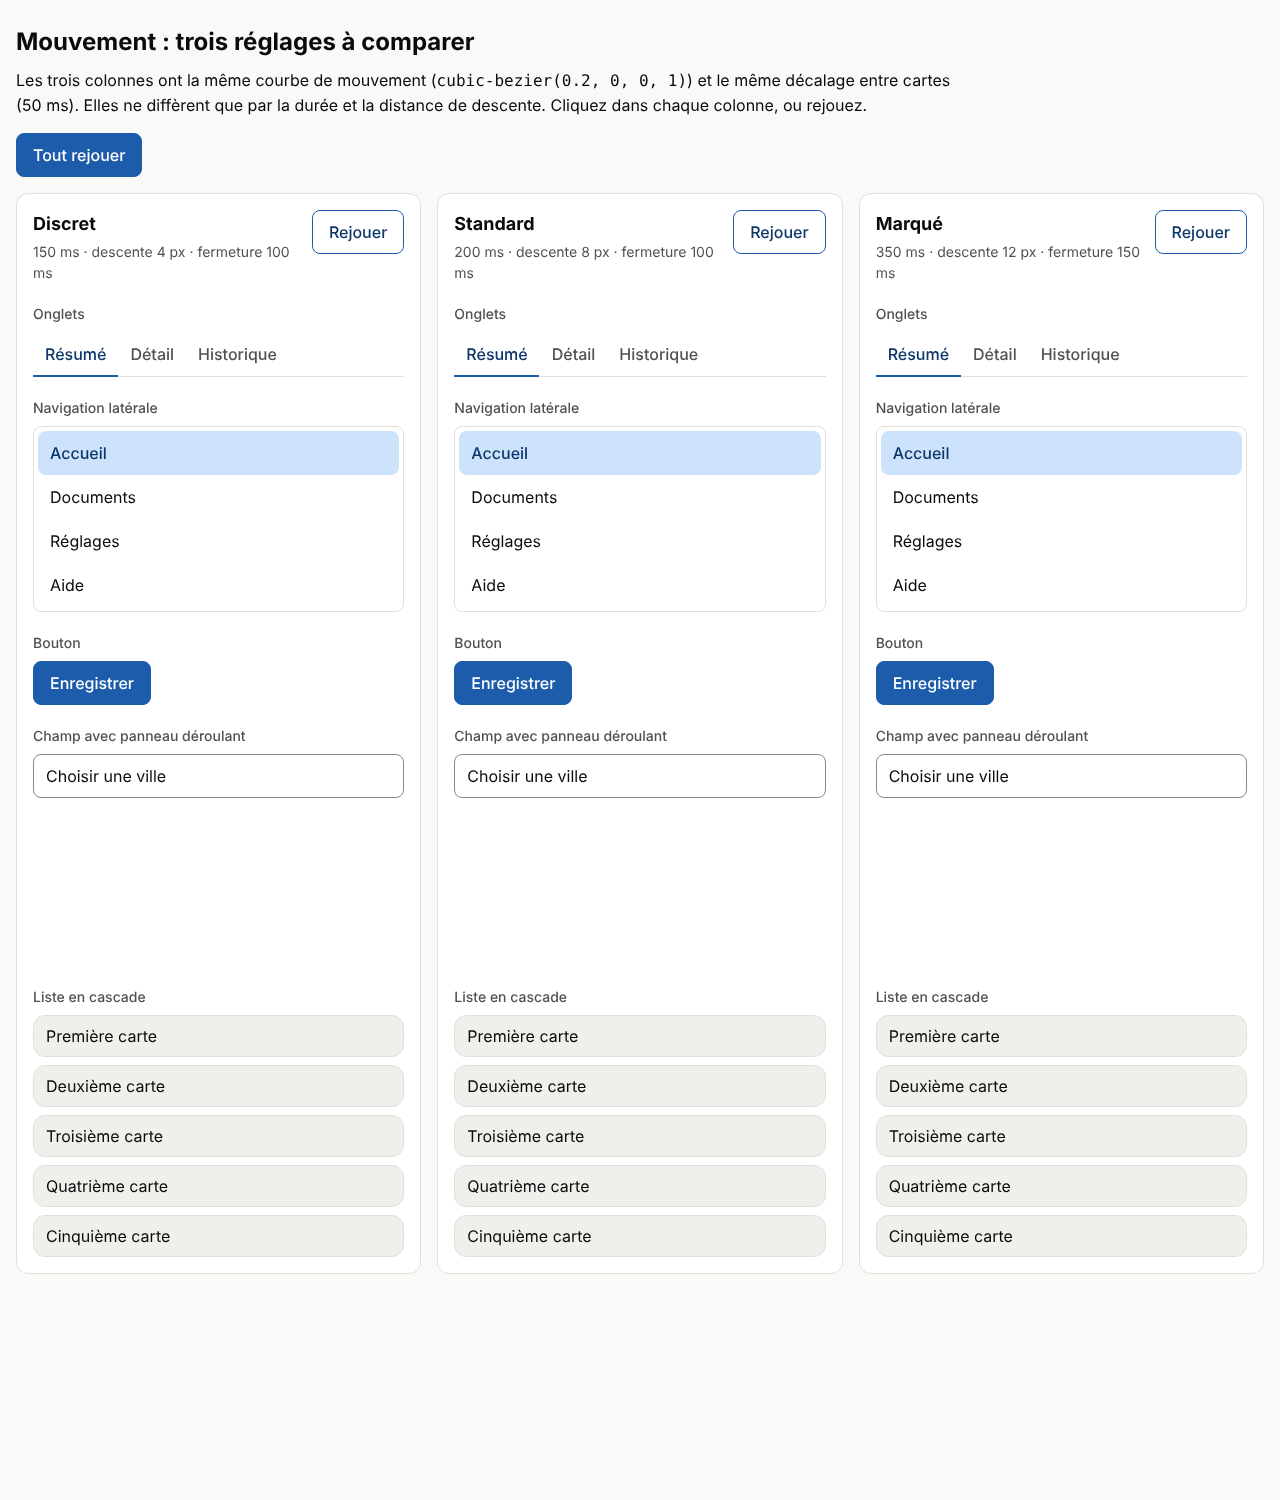
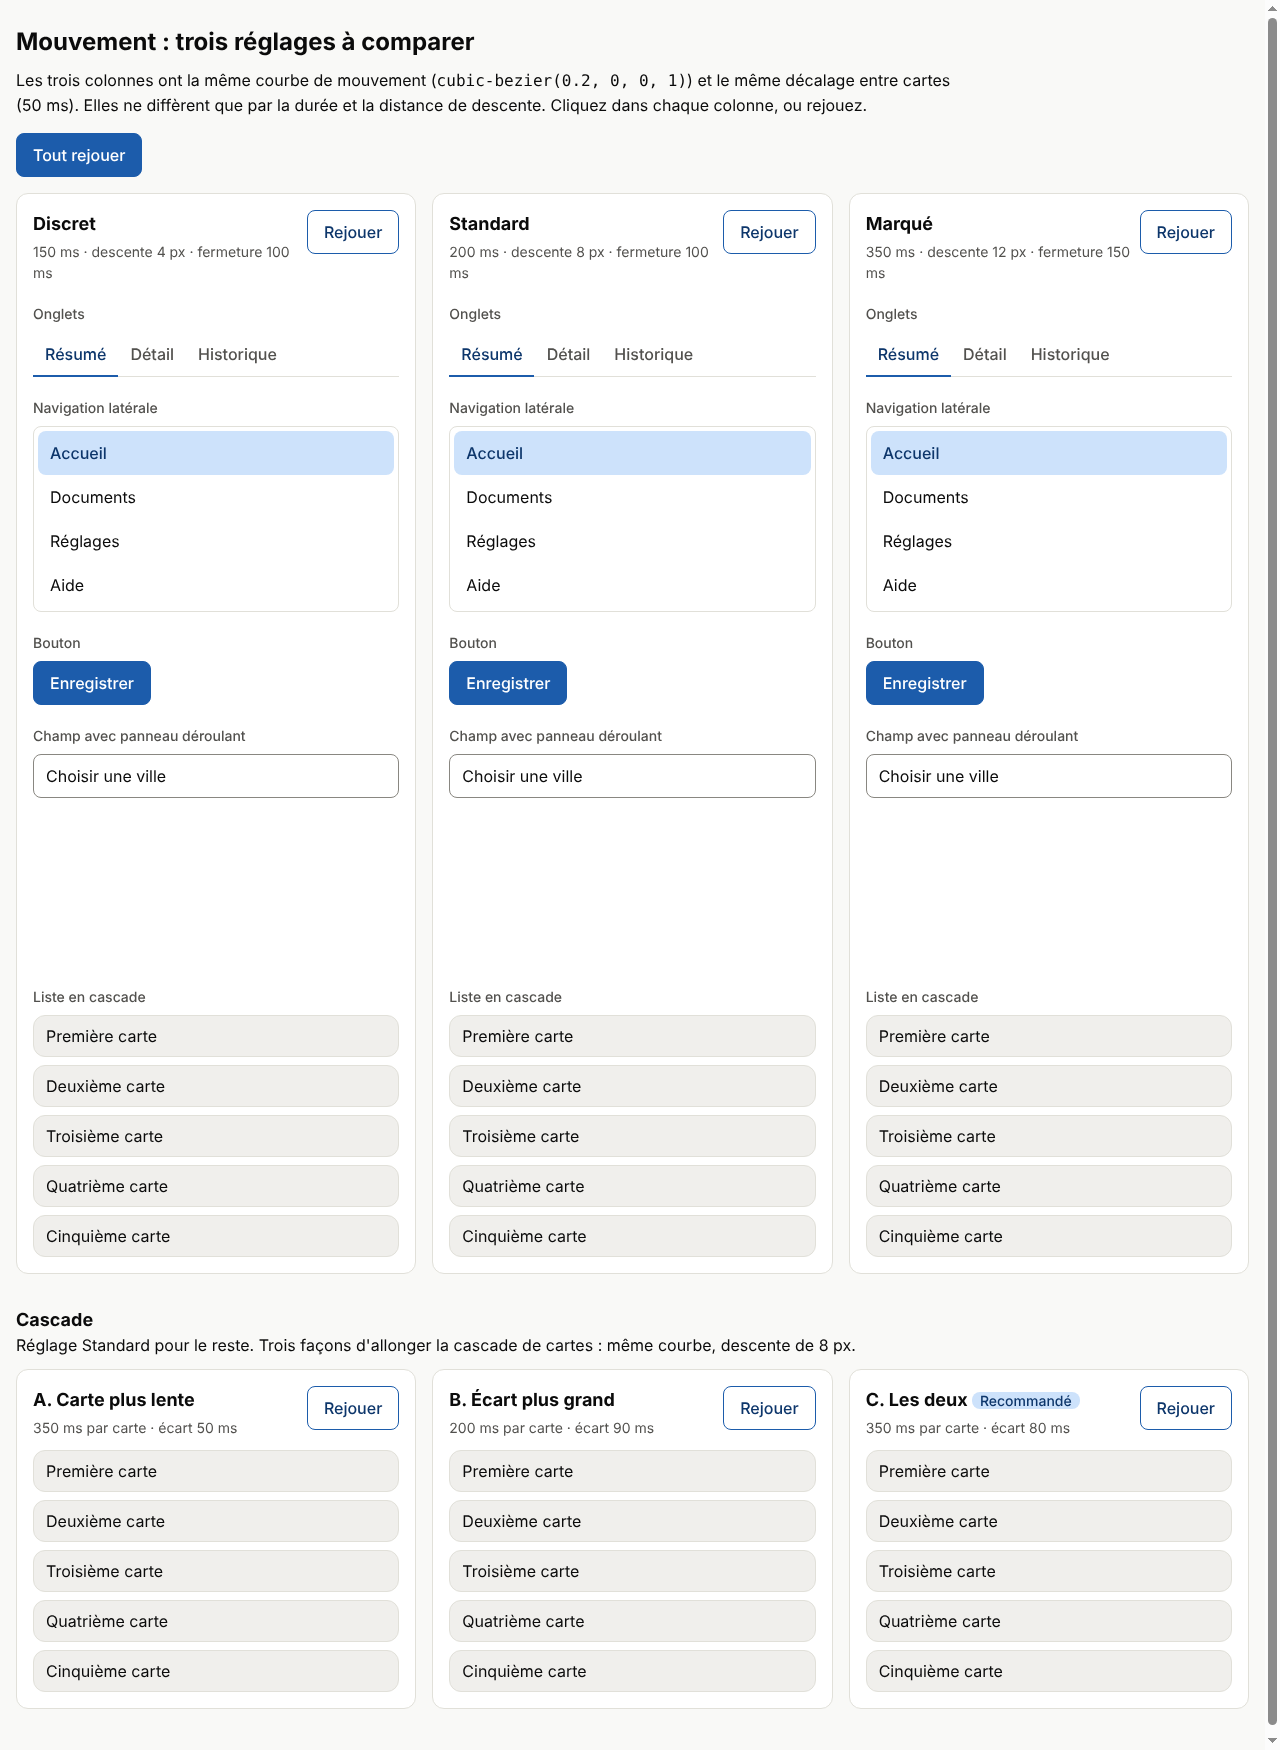
docs(design): variantes de cascade dans la démo de mouvement
Claude-Session: https://claude.ai/code/session_011nLZSByMD5Tys8DtCLJcd3

Changed region(s): [[0.0, 0.0, 1.0, 0.9813], [0.2188, 0.552, 0.8438, 0.9813], [0.0, 0.552, 0.1875, 0.9813]]

diff --git a/docs/design/explorations/2026-11-mouvement/index.html b/docs/design/explorations/2026-11-mouvement/index.html
@@ -66,6 +66,11 @@ button{font:inherit;color:inherit;cursor:pointer}
 .cards{display:grid;gap:.5rem;margin:0;padding:0;list-style:none}
 .cards li{background:var(--sunken);border:1px solid var(--border);border-radius:var(--r-lg);padding:.5rem .75rem}
 .cards.play li{animation:down var(--dur) var(--ease) backwards;animation-delay:calc(var(--i) * var(--stagger))}
+/* Section Cascade */
+.casc{margin-top:2rem}
+.casc .col{--dist:8px}
+.casc .cards{margin-top:.75rem}
+.casc .tag{font-size:.875rem;font-weight:500;color:var(--on-primary-container);background:var(--primary-container);border-radius:var(--r-md);padding:0 .5rem;white-space:nowrap}
 @media (prefers-reduced-motion:reduce){
   *,*::before,*::after{animation-duration:.01ms!important;animation-delay:0s!important;transition-duration:.01ms!important}
 }
@@ -78,6 +83,11 @@ button{font:inherit;color:inherit;cursor:pointer}
 <p>Les trois colonnes ont la même courbe de mouvement (<code>cubic-bezier(0.2, 0, 0, 1)</code>) et le même décalage entre cartes (50 ms). Elles ne diffèrent que par la durée et la distance de descente. Cliquez dans chaque colonne, ou rejouez.</p>
 <div class="top"><button class="btn" id="all" type="button">Tout rejouer</button></div>
 <div class="grid" id="grid"></div>
+<section class="casc" aria-labelledby="casc-t">
+<h2 id="casc-t">Cascade</h2>
+<p>Réglage Standard pour le reste. Trois façons d'allonger la cascade de cartes : même courbe, descente de 8 px.</p>
+<div class="grid" id="casc"></div>
+</section>
 </main>
 
 <template id="tpl">
@@ -164,6 +174,23 @@ SETS.forEach(s=>{const p=build(s);players.push(p);grid.append(p.col)});
 // Les mesures des onglets ne sont fiables qu'une fois la colonne dans la page.
 players.forEach(p=>p.init());
 addEventListener('resize',()=>players.forEach(p=>p.init()));
+const CASC=[
+ {n:'A. Carte plus lente',d:350,g:50},
+ {n:'B. Écart plus grand',d:200,g:90},
+ {n:'C. Les deux',d:350,g:80,rec:true}];
+CASC.forEach(c=>{
+ const col=mk('section','',document.getElementById('casc'));col.className='col';
+ col.style.setProperty('--dur',c.d+'ms');col.style.setProperty('--stagger',c.g+'ms');
+ const h=mk('header','',col),w=mk('div','',h),t=mk('h2',c.n,w);
+ if(c.rec){const g=mk('span','Recommandé',t);g.className='tag';t.append(' ');t.append(g)}
+ mk('p',`${c.d} ms par carte · écart ${c.g} ms`,w).className='vals';
+ const r=mk('button','Rejouer',h);r.type='button';r.className='btn outline';
+ const ul=mk('ul','',col);ul.className='cards';
+ CARDS.forEach((x,i)=>{mk('li',x,ul).style.setProperty('--i',i)});
+ const replay=()=>{ul.classList.remove('play');reflow(ul);ul.classList.add('play')};
+ r.onclick=replay;replay();
+ players.push({replay,init(){}});
+});
 document.getElementById('all').onclick=()=>players.forEach(p=>p.replay());
 </script>
 </body>
